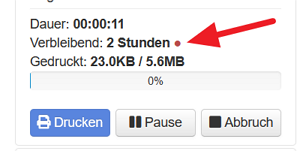
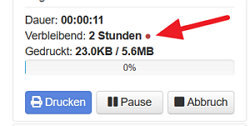
Resized Image, Typo

diff --git a/README.md b/README.md
@@ -8,7 +8,7 @@ The default configuration matches the syntax of the following slicers, but you c
 * Slic3r Prusa Edition
 * Simplify 3D
 
-You can see that Slicer Estimator detected the embedded ramaining time if the dot right of the estimation looks like this:
+You can see that Slicer Estimator detected the embedded remaining time if the dot right of the estimation looks like this:
 
 ![](images/OctoPrint-estimator_dot.png)
 
